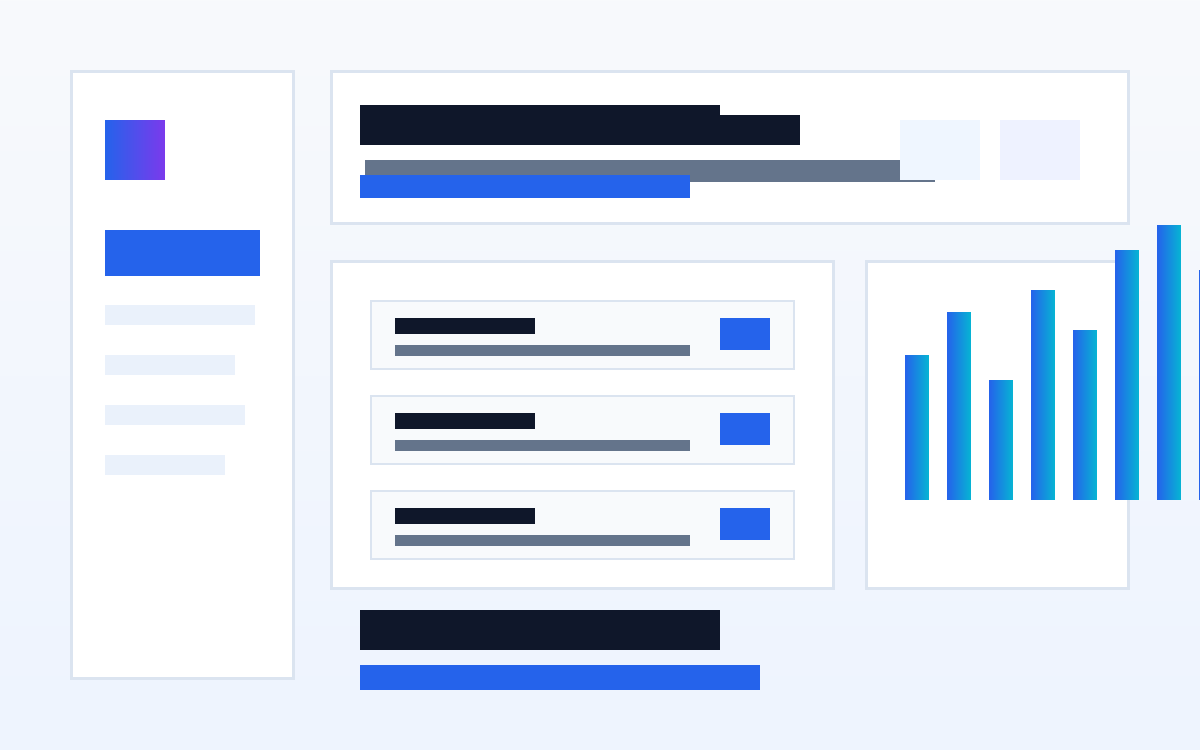
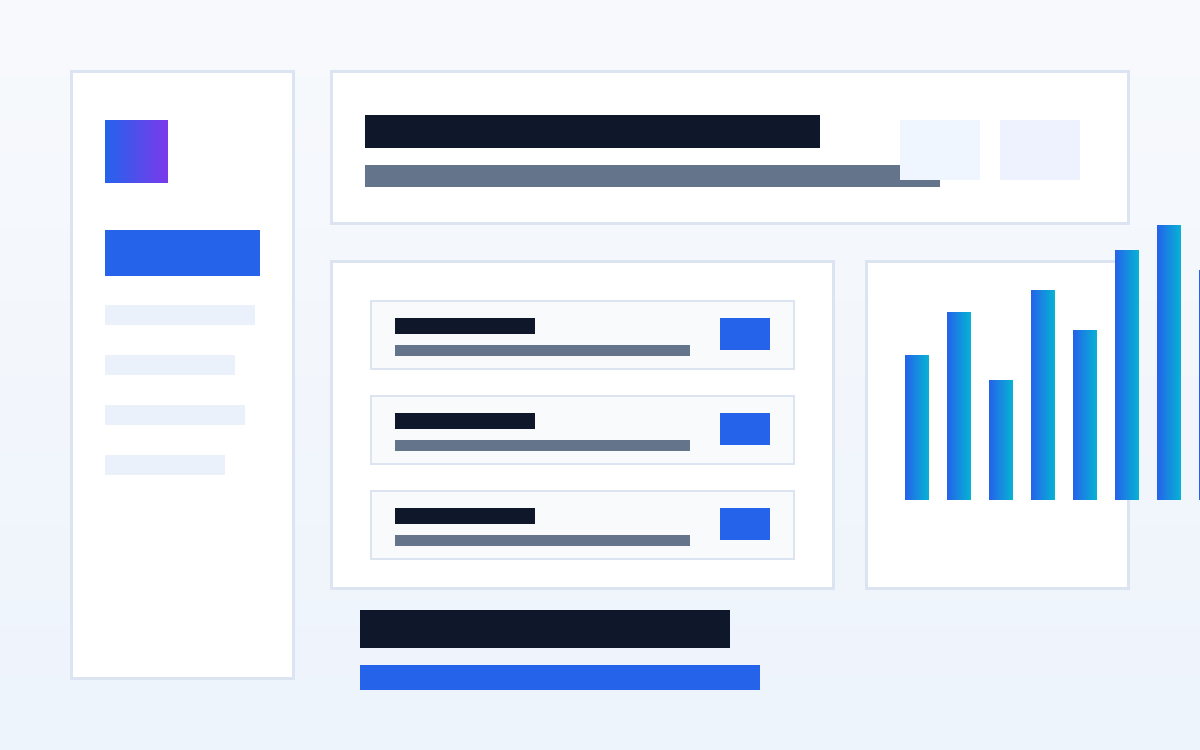
Force ClientFlow preview image rendering

diff --git a/src/data/constants.js b/src/data/constants.js
@@ -102,6 +102,9 @@ export const projects = [
 	{
 		id: 108,
 		title: 'ClientFlow CRM',
+		thumbnail: '/projects/clientflow-crm-preview.png',
+		thumb: '/projects/clientflow-crm-preview.png',
+		src: '/projects/clientflow-crm-preview.png',
 		dateEng: 'May 2026',
 		dateRu: 'Май 2026',
 		descriptionEng: 'A lightweight SaaS CRM dashboard for website, Telegram and AI assistant leads: lead inbox, AI summaries, pipeline, analytics, activity feed and brief builder.',